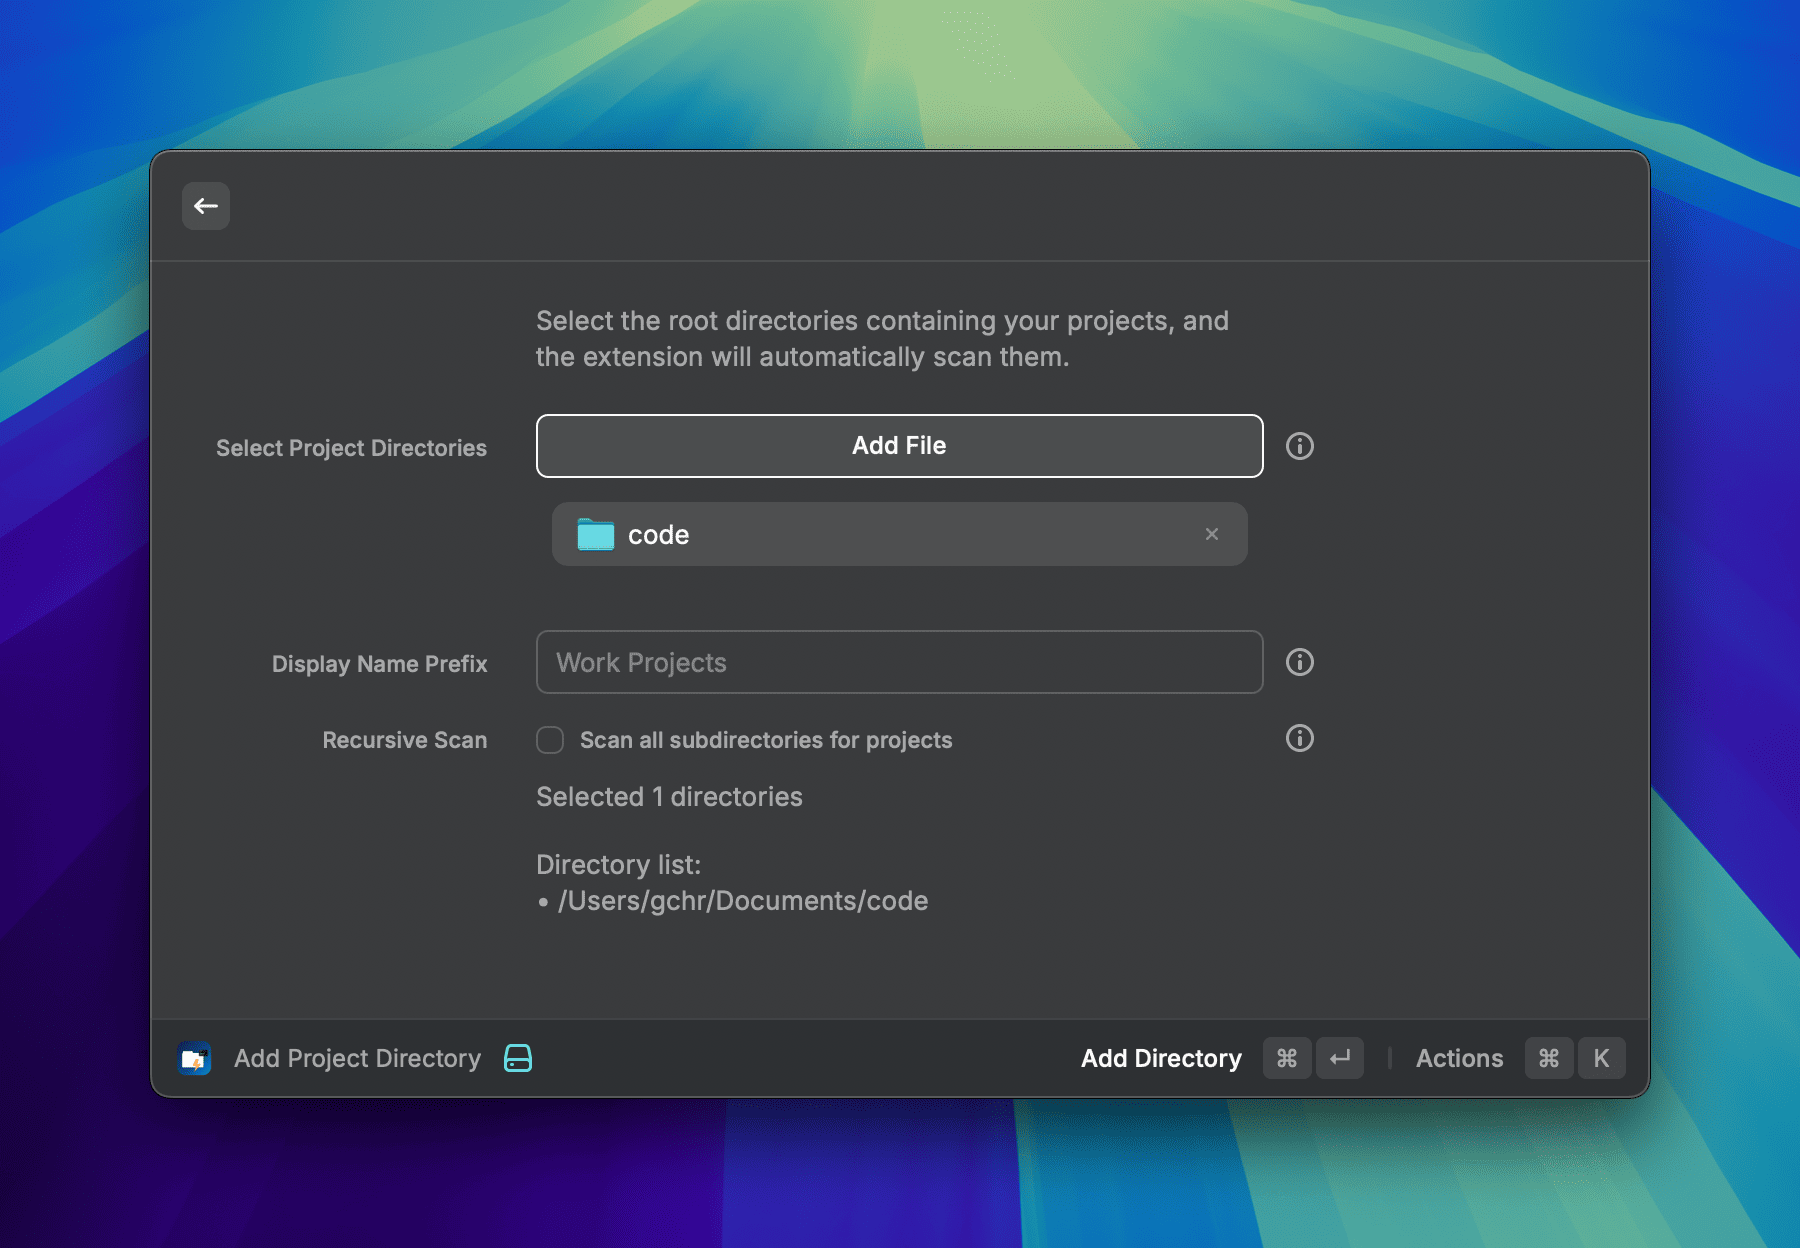
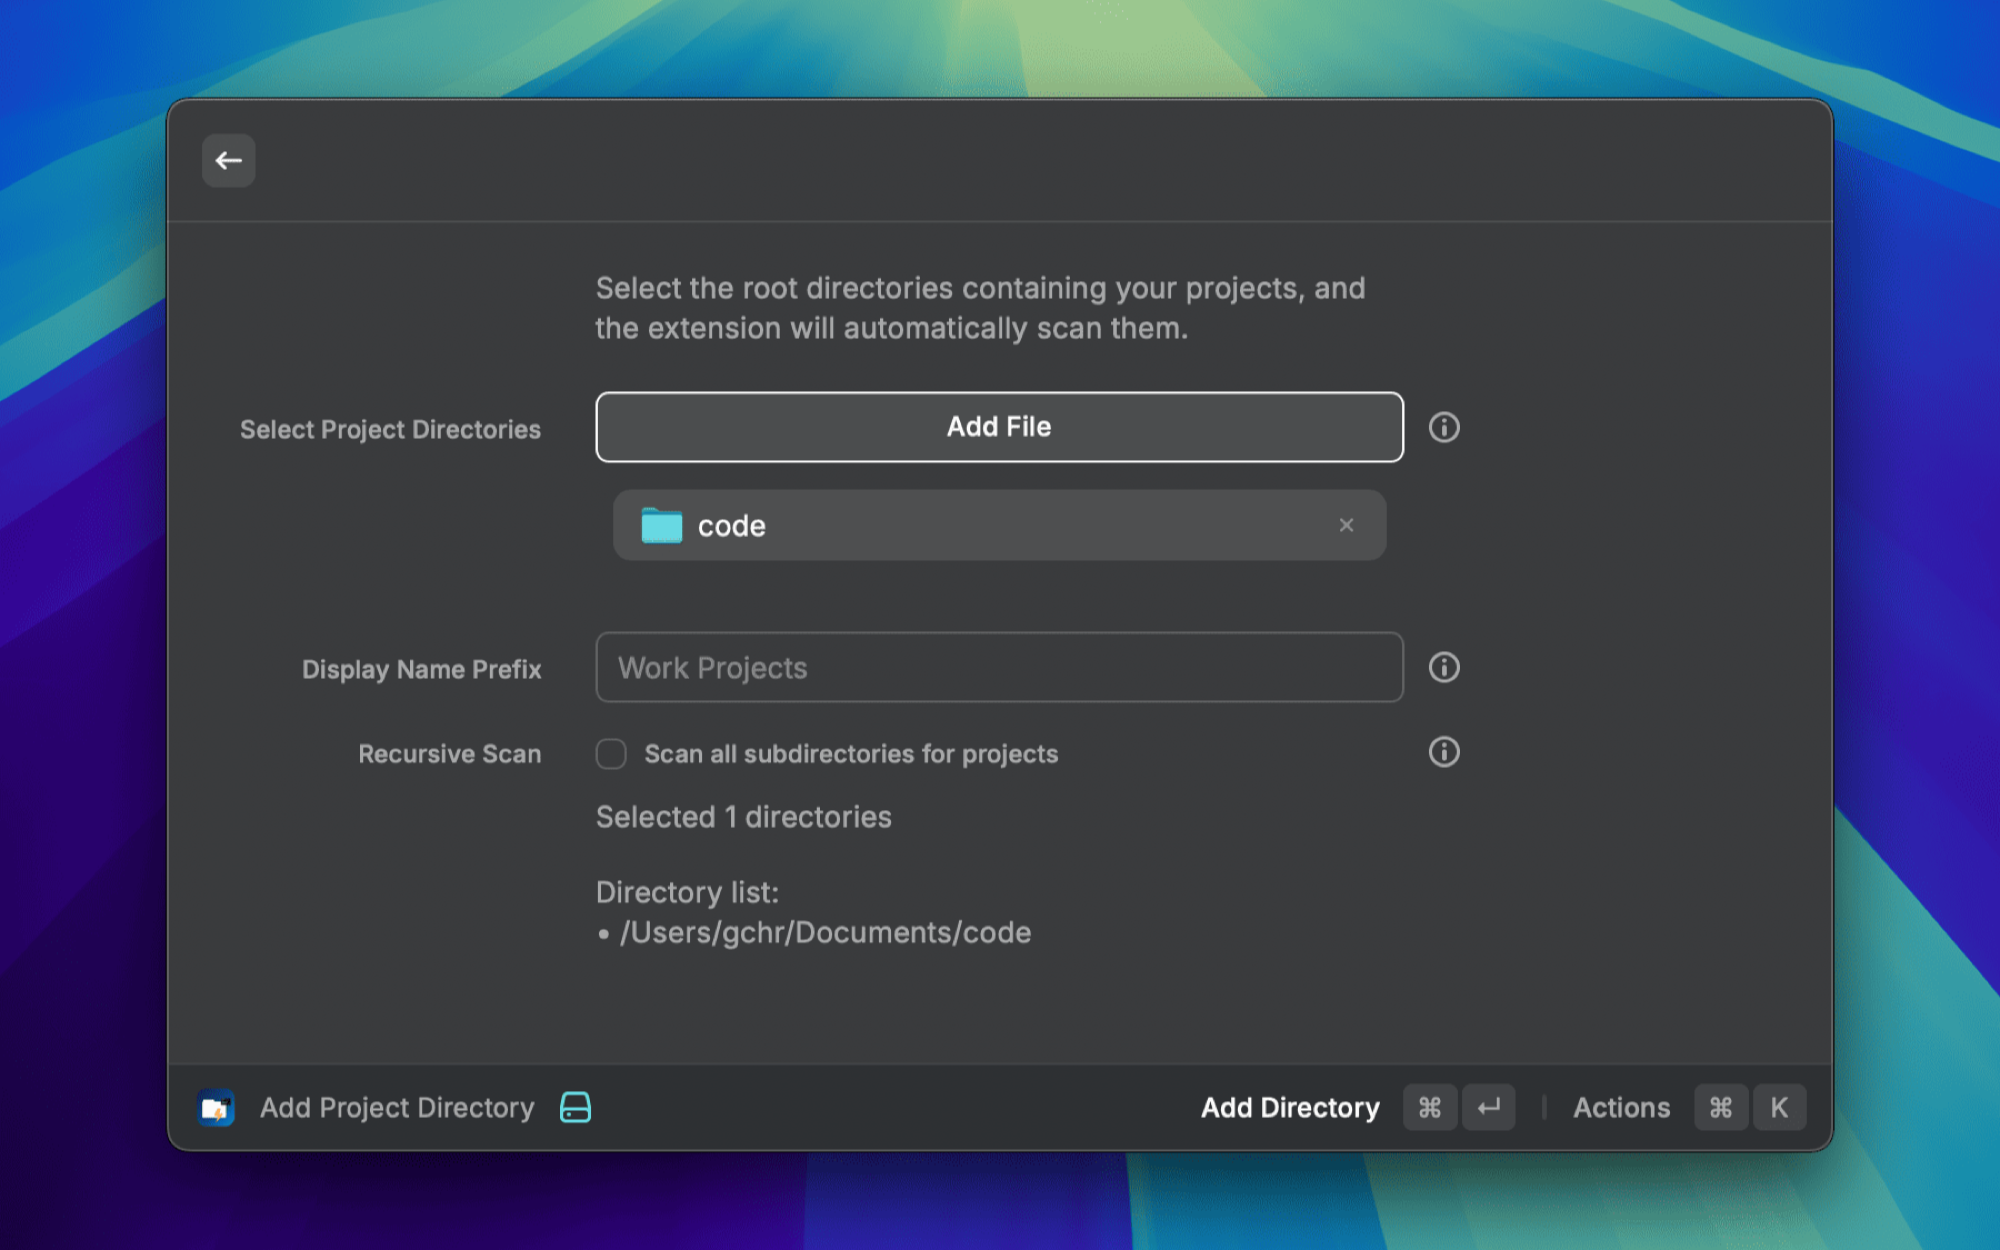
fix: resize all screenshots to meet Raycast requirements (2000x1250)

diff --git a/README_CN.md b/README_CN.md
@@ -41,7 +41,7 @@
    - **简单启动**: 在单个 Warp 窗口中打开
    - **模板启动**: 从可用模板中选择
 
-![search-projects](./images/launch-templates.png)
+![search-projects](./metadata/launch-templates.png)
 
 ### 3. 管理模板
 
@@ -51,7 +51,7 @@
 2. 创建新模板或编辑现有模板
 3. 使用 **"设为默认"** 操作设置默认模板（`Cmd + D`）
 
-![manage-templates](./images/edit-template.png)
+![manage-templates](./metadata/edit-template.png)
 
 
 ## 🔍 项目识别
@@ -84,7 +84,7 @@
 | **项目目录设置** | 管理项目目录，提供完整控制 |
 | **Warp 启动模板** | 创建和管理自定义启动模板 |
 
-![available-commands](./images/settings.png)
+![available-commands](./metadata/settings.png)
 
 ## 🎨 模板自定义
 
@@ -120,7 +120,7 @@
     工作目录: (项目根目录)
 ```
 
-![custom-template](./images/add-template.png)
+![custom-template](./metadata/add-template.png)
 
 ## 🛠 Warp 集成
 
